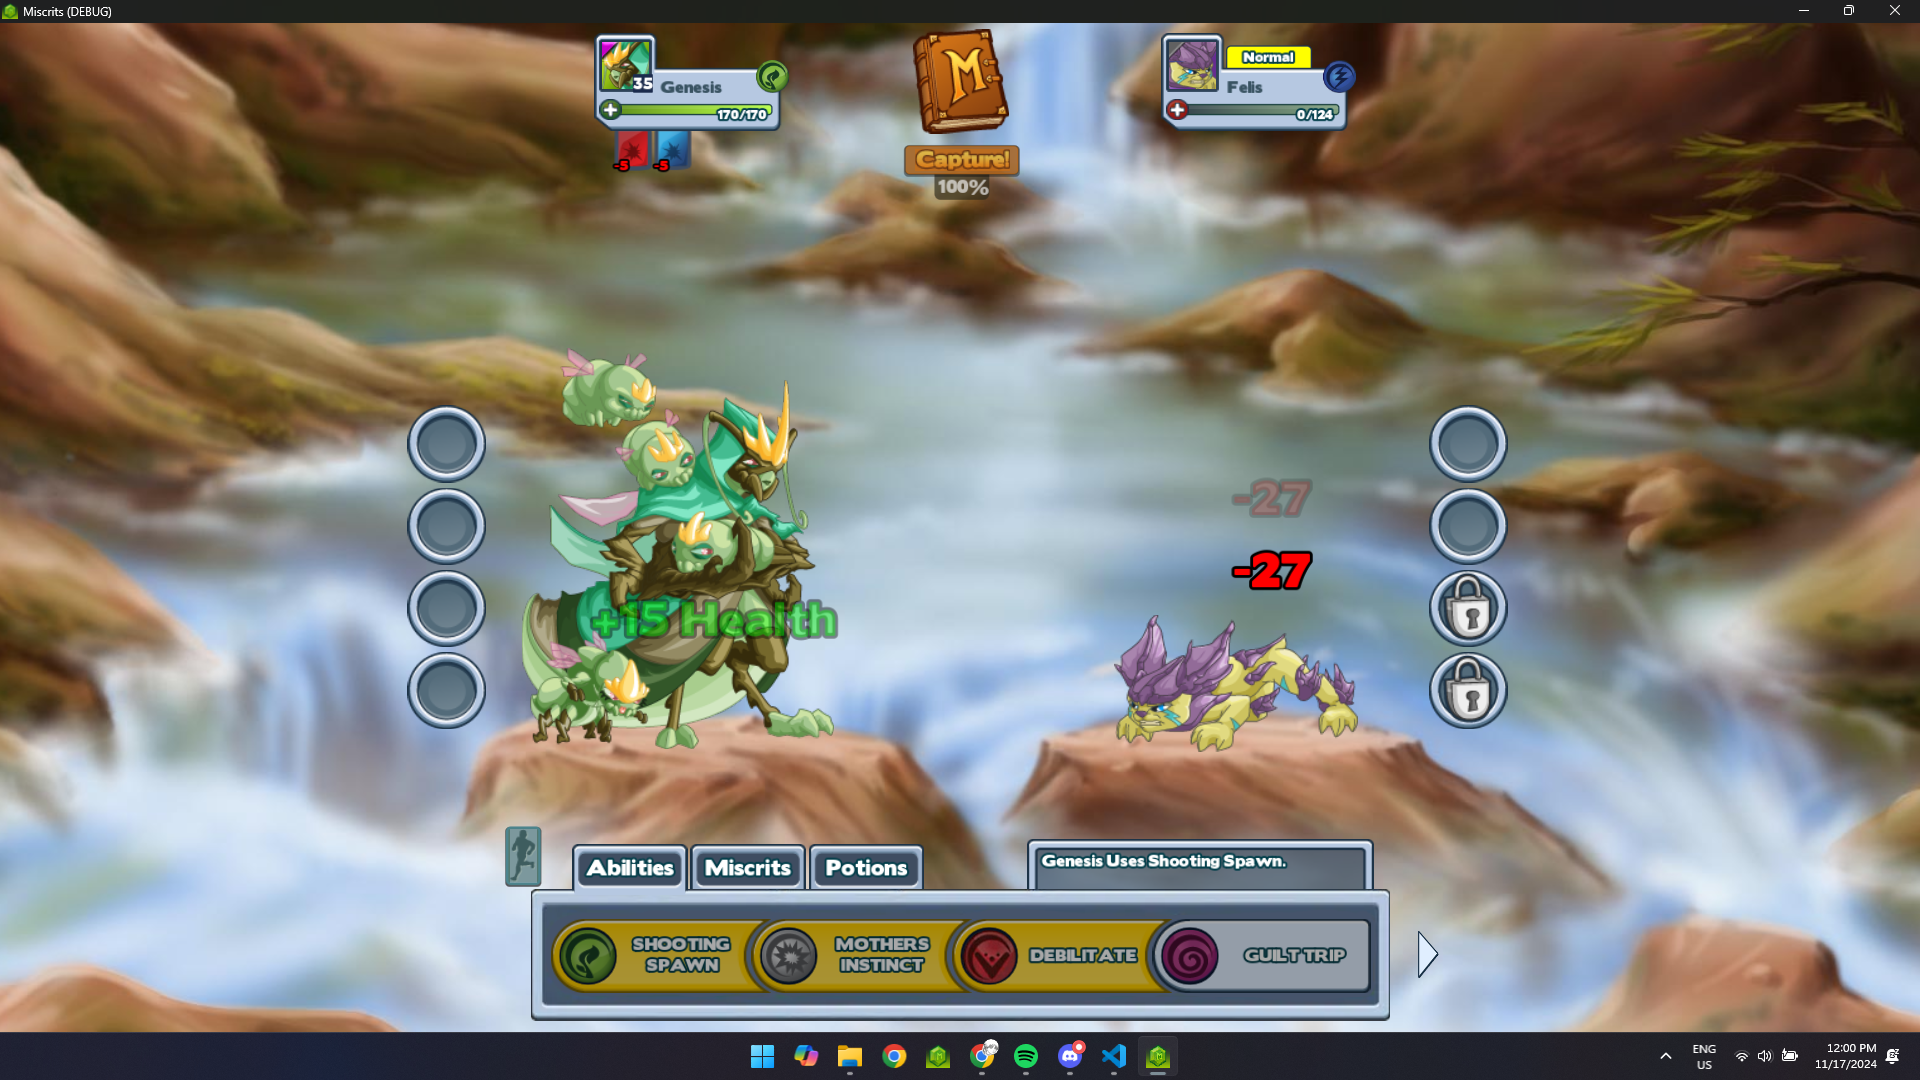
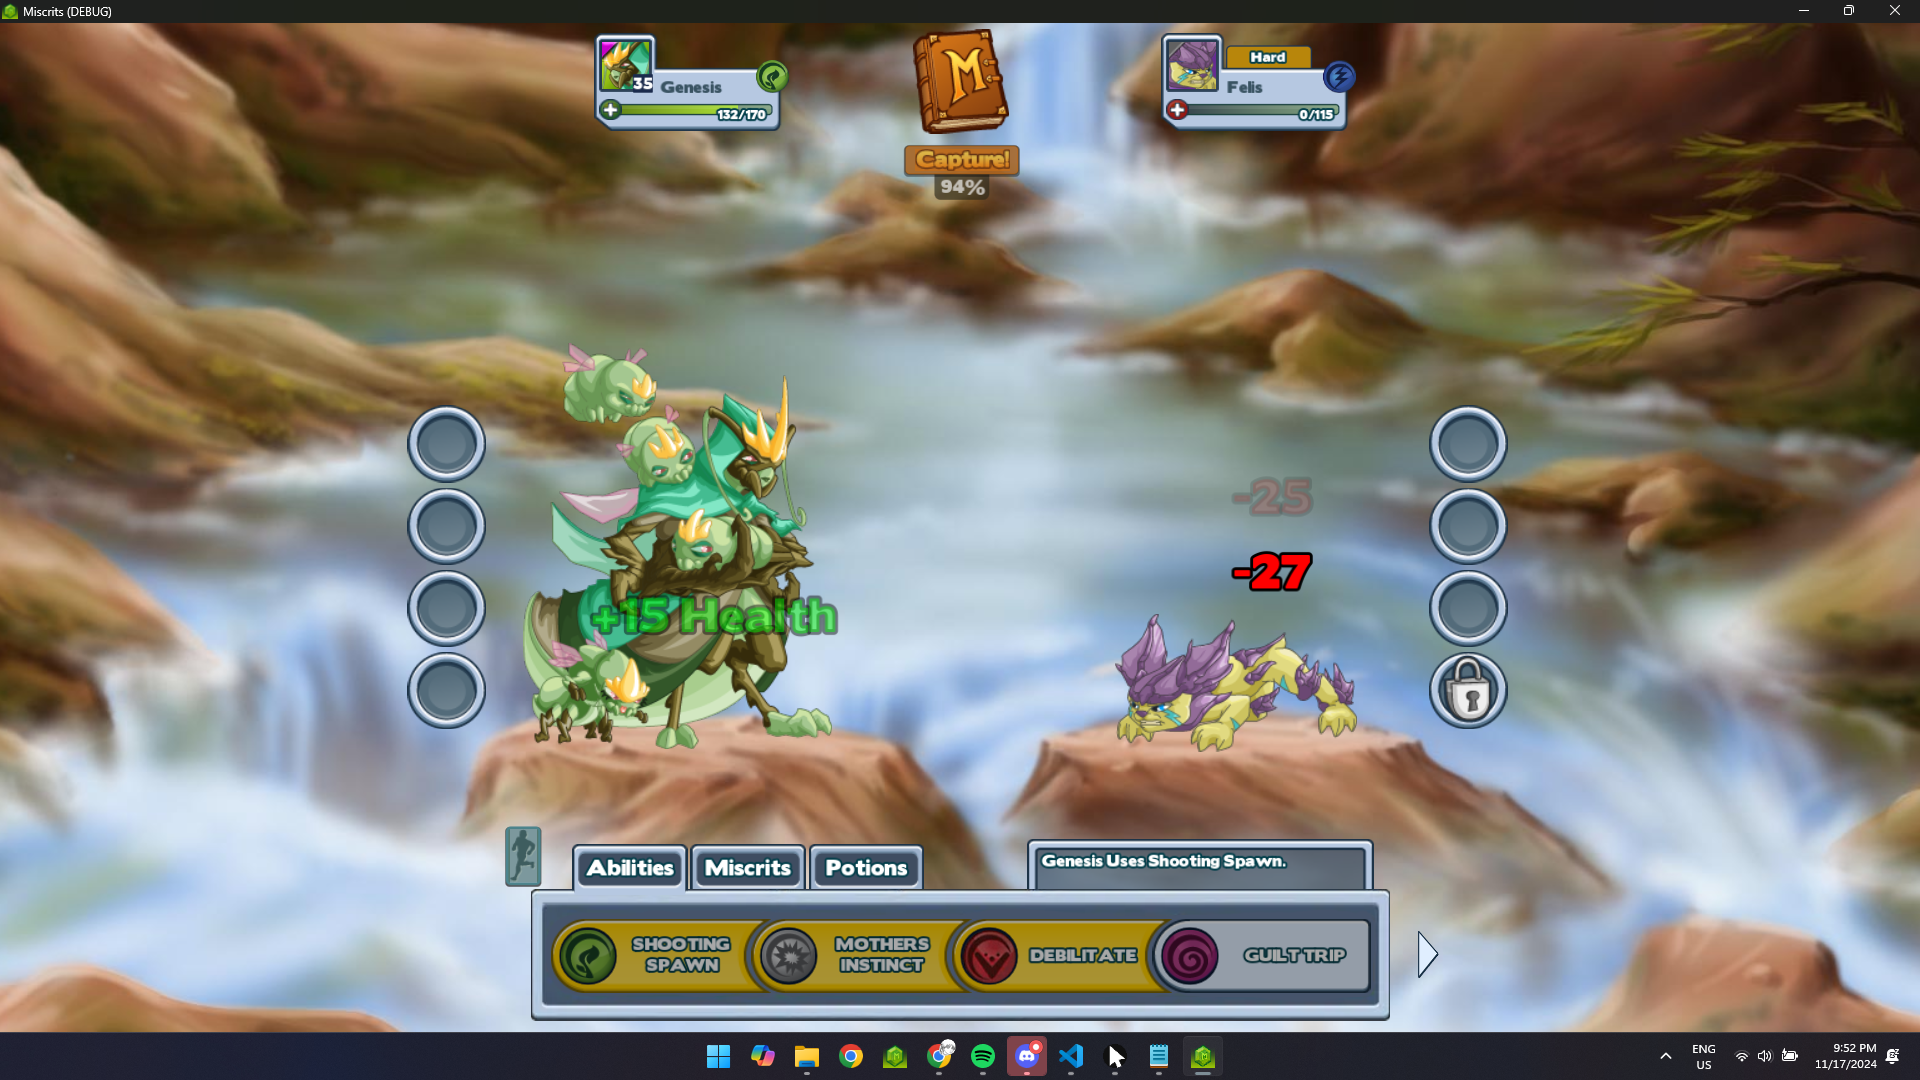
working self capture i think

diff --git a/miscritsexpfarm.py b/miscritsexpfarm.py
@@ -41,14 +41,14 @@ SEARCH_DROP_REGION = (795, 350, 272, 211)
 def check_and_click_search_drop():
     """Check if any search drop is visible in the defined region and click it."""
     print("Checking for search drops in the main region...")
-    time.sleep(2)
+    time.sleep(1)
     for drop_image in search_drops:
         try:
             drop_location = pyautogui.locateOnScreen(drop_image, region=SEARCH_DROP_REGION, confidence=0.7)
             if drop_location:
                 print(f"Search drop found: {drop_image}. Clicking...")
                 pyautogui.click(pyautogui.center(drop_location))
-                time.sleep(2)  # Wait for actions triggered by the click
+                time.sleep(1)  # Wait for actions triggered by the click
                 return True  # If a search drop is found and clicked, return True
         except pyautogui.ImageNotFoundException:
             print(f"Error: {drop_image} not found on screen.")
@@ -58,7 +58,7 @@ def clear_area_for_visibility():
     print("Clearing the area for visibility...")
     # Click to clear the area (adjust coordinates as necessary)
     pyautogui.click(1040, 540)  
-    time.sleep(1.5)  # Wait for area to be cleared
+    time.sleep(1)  # Wait for area to be cleared
 
 def search_for_miscrit():
     """Step 1: Clicks to clear the area and then searches for Miscrits."""
@@ -71,7 +71,7 @@ def search_for_miscrit():
                 print(f"Search area found: {search_area}. Clicking to search for Miscrit...")
                 search_area_center = pyautogui.center(search_area_location)
                 pyautogui.click(search_area_center)
-                time.sleep(4)  # Wait to ensure the search starts
+                time.sleep(3)  # Wait to ensure the search starts
 
                 # Now check if the Miscrit is found
                 if is_miscrit_found():
@@ -141,6 +141,34 @@ def show_alert():
     button.pack(pady=10)
     alert.mainloop()
 
+def detect_new_miscrit(capture_region=(727, 407, 164, 38), expected_text="New Miscrit"):
+    """
+    Detect if a new Miscrit text appears on the screen after closing the win screen.
+    """
+    print("Checking for new Miscrit text...")
+    time.sleep(3)
+    def ocr_task():
+        try:
+            screenshot = pyautogui.screenshot(region=capture_region)  # Capture the specified region
+            screenshot = preprocess_image_for_ocr(screenshot)  # Preprocess the image for OCR
+            text_in_region = pytesseract.image_to_string(screenshot)  # OCR text detection
+            return text_in_region.strip()
+        except Exception as e:
+            print(f"Error in OCR: {e}")
+            return ""
+
+    with concurrent.futures.ThreadPoolExecutor() as executor:
+        future = executor.submit(ocr_task)  # Run OCR in a separate thread
+        text_in_region = future.result()  # Get OCR result
+
+    # Check if the expected text is detected in the region
+    if expected_text in text_in_region:
+        print(f"New Miscrit text detected: '{expected_text}'.")
+        return True  # Indicate that the new Miscrit text was found
+
+    print("No new Miscrit text detected.")
+    return False
+
 from PIL import ImageOps
 import concurrent.futures
 
@@ -150,41 +178,69 @@ def preprocess_image_for_ocr(image):
     enhanced_image = ImageOps.autocontrast(grayscale_image)  # Enhance contrast
     return enhanced_image
 
-def detect_target_miscrit(target_texts=["Foil Thundercracker"]):
-    """Detect if any of the target Miscrit texts appear on screen and show alert if found."""
+def detect_target_miscrit(target_texts=["Peekly", "Felis", "Owlie"], capture_text="Catch"):
+    """Detect if any of the target Miscrit texts appear on screen and attack it once."""
     print("Checking for target Miscrit texts...")
 
-    def ocr_task():
+    def ocr_task(region):
         try:
-
-            search_region = (1219, 71, 109, 26)  # Width = 1328 - 1219, Height = 97 - 71
-
-            screenshot = pyautogui.screenshot(region=search_region)  # Capture region
+            screenshot = pyautogui.screenshot(region=region)  # Capture region
             screenshot = preprocess_image_for_ocr(screenshot)  # Preprocess image
             text_in_region = pytesseract.image_to_string(screenshot)  # OCR text detection
-            return text_in_region
+            return text_in_region.strip()
         except Exception as e:
             print(f"Error in OCR: {e}")
             return ""
 
+    # Define regions for OCR checks
+    miscrit_region = (1219, 71, 109, 26)  # Region for target Miscrit detection
+    capture_region = (723, 433, 137, 34)
+
+    # Detect target Miscrit
     with concurrent.futures.ThreadPoolExecutor() as executor:
-        future = executor.submit(ocr_task)  # Run OCR in a separate thread
+        future = executor.submit(ocr_task, miscrit_region)  # Run OCR for Miscrit region
         text_in_region = future.result()  # Get OCR result
 
-    # Check if any of the target texts with first letter capitalized are in the detected text
+    # Check if any of the target texts are in the detected text
     for target_text in target_texts:
         if target_text in text_in_region:
-            print(f"Target Miscrit '{target_text}' detected! Showing alert.")
-            show_alert()  # Trigger alert if Miscrit detected
-            return True  # Return True when any of the target Miscrits are found
+            print(f"Target Miscrit '{target_text}' detected! Attacking once.")
+            # Attack the target Miscrit using the provided coordinates
+            # pyautogui.click(ATTACK_BUTTON_COORDS)  # Click Attack button
+            time.sleep(2)  # Pause before next action
+            pyautogui.click(850, 954)  # Click the additional button
+            time.sleep(6)  # Pause to ensure the action is registered
+            pyautogui.click(850, 954)  # Click the additional button
+            time.sleep(6)  # Pause to ensure the action is registered
+            pyautogui.click(960, 159)  # Click the additional button
+            time.sleep(5)
+            pyautogui.click(878, 605)  # Click capture button 2
+            time.sleep(2)
+
+            # Check for capture text
+            print("Checking for capture text...")
+            time.sleep(3)
+            capture_text_detected = ocr_task(capture_region)
+            if capture_text in capture_text_detected:
+                print("Capture text found! Performing capture actions.")
+                time.sleep(5)
+                pyautogui.click(912, 598)  # Click capture button 1
+                time.sleep(2)
+                pyautogui.click(878, 605)  # Click capture button 2
+                time.sleep(2)
+            else:
+                print("Capture text not found.")
+
+            return True  # Indicate that the target Miscrit was found and attacked
 
     print("None of the target Miscrit texts were found.")
     return False
 
+
 def detect_evolved_text():
     """Detect if the 'evolved' text is visible on the screen."""
     print("Checking for 'evolved' text...")
-    time.sleep(2)
+    #time.sleep(2)
     try:
         evolved_location = pyautogui.locateOnScreen('evolved.png', confidence=0.8)
         if evolved_location:
@@ -202,7 +258,6 @@ def is_miscrit_found():
     pyautogui.screenshot('debug_before_fight.png')  # Capture a screenshot right before checking for the Miscrit
     miscrit_location = pyautogui.locateOnScreen(MISCRIT_IMAGE, confidence=0.7)
     return miscrit_location is not None
-
 def fight_miscrit():
     """Step 3: Engages in the fight by clicking the Attack button until the battle ends."""
     print("Entering battle loop...")
@@ -217,9 +272,9 @@ def fight_miscrit():
     while not battle_ended:  # Continue loop until battle ends
         # If target Miscrit is detected, pause the attack
         if detect_target_miscrit():
-            print("Target Miscrit detected! Pausing attack.")
+            print("Target Miscrit detected!")
             # Allow manual interaction after detecting the target Miscrit
-            time.sleep(5)  # You can adjust the sleep time to suit your needs
+            time.sleep(2)  # You can adjust the sleep time to suit your needs
             continue  # Continue to the next attack phase
 
         print("Clicking Attack button...")
@@ -231,13 +286,31 @@ def fight_miscrit():
         if locate_win_screen():
             print("Win screen detected!")
             time.sleep(2.5)
-            if detect_ready_to_train():  # Check if 'Ready to Train' screen is visible
-                pyautogui.click(CLOSE_BUTTON_COORDS)  # Close win screen
+
+            # Prioritize checking for a new Miscrit before handling 'Ready to Train'
+            time.sleep(2)
+            if detect_new_miscrit():
+                print("New Miscrit detected after win screen. Initiating capture process...")
+                pyautogui.click(1005, 615)  # Click the additional button
+                time.sleep(1)
+
+            # Handle 'Ready to Train' after checking for new Miscrit
+            if detect_ready_to_train():
                 print("Ready to Train detected. Proceeding to training...")
                 handle_training()  # Proceed to training
             else:
                 print("No Ready to Train detected. Closing win screen.")
                 pyautogui.click(CLOSE_BUTTON_COORDS)  # Close win screen
+                time.sleep(2)  # Allow time for the screen to close
+
+                # Check for a new Miscrit again after closing the win screen
+                if detect_new_miscrit():
+                    print("New Miscrit detected after closing win screen. Initiating capture process...")
+                    pyautogui.click(1005, 615)  # Click the additional button
+                    time.sleep(1)
+                else:
+                    print("No new Miscrit detected after closing win screen.")
+
             battle_ended = True  # Mark the battle as ended
             break  # Exit battle loop
 
@@ -300,7 +373,7 @@ def handle_training():
 
     # Wait for animation to complete before checking for evolved text
     print("Waiting for evolution animation to complete...")
-    time.sleep(2)  # Increased delay to 2 seconds for evolution animation
+    time.sleep(1)  # Increased delay to 2 seconds for evolution animation
 
     # Check for evolved text
     evolved_detected = False

diff --git a/tempCodeRunnerFile.py b/tempCodeRunnerFile.py
@@ -1,27 +1,1 @@
-def detect_S():
-    """Detects 'S' Miscrit within the selected screen region."""
-    try:
-        s_image_location = pyautogui.locateOnScreen('S.png', region=SEARCH_REGION, confidence=0.7)
-        if s_image_location:
-            print("S Miscrit found!")
-            return True
-        else:
-            print("S Miscrit not found.")
-            return False
-    except Exception as e:
-        print(f"Error detecting S Miscrit: {e}")
-        return False
-
-def detect_S_plus():
-    """Detects 'S+' Miscrit within the selected screen region."""
-    try:
-        s_plus_image_location = pyautogui.locateOnScreen('S+.png', region=SEARCH_REGION, confidence=0.7)
-        if s_plus_image_location:
-            print("S+ Miscrit found!")
-            return True
-        else:
-            print("S+ Miscrit not found.")
-            return False
-    except Exception as e:
-        print(f"Error detecting S+ Miscrit: {e}")
-        return False
+960
